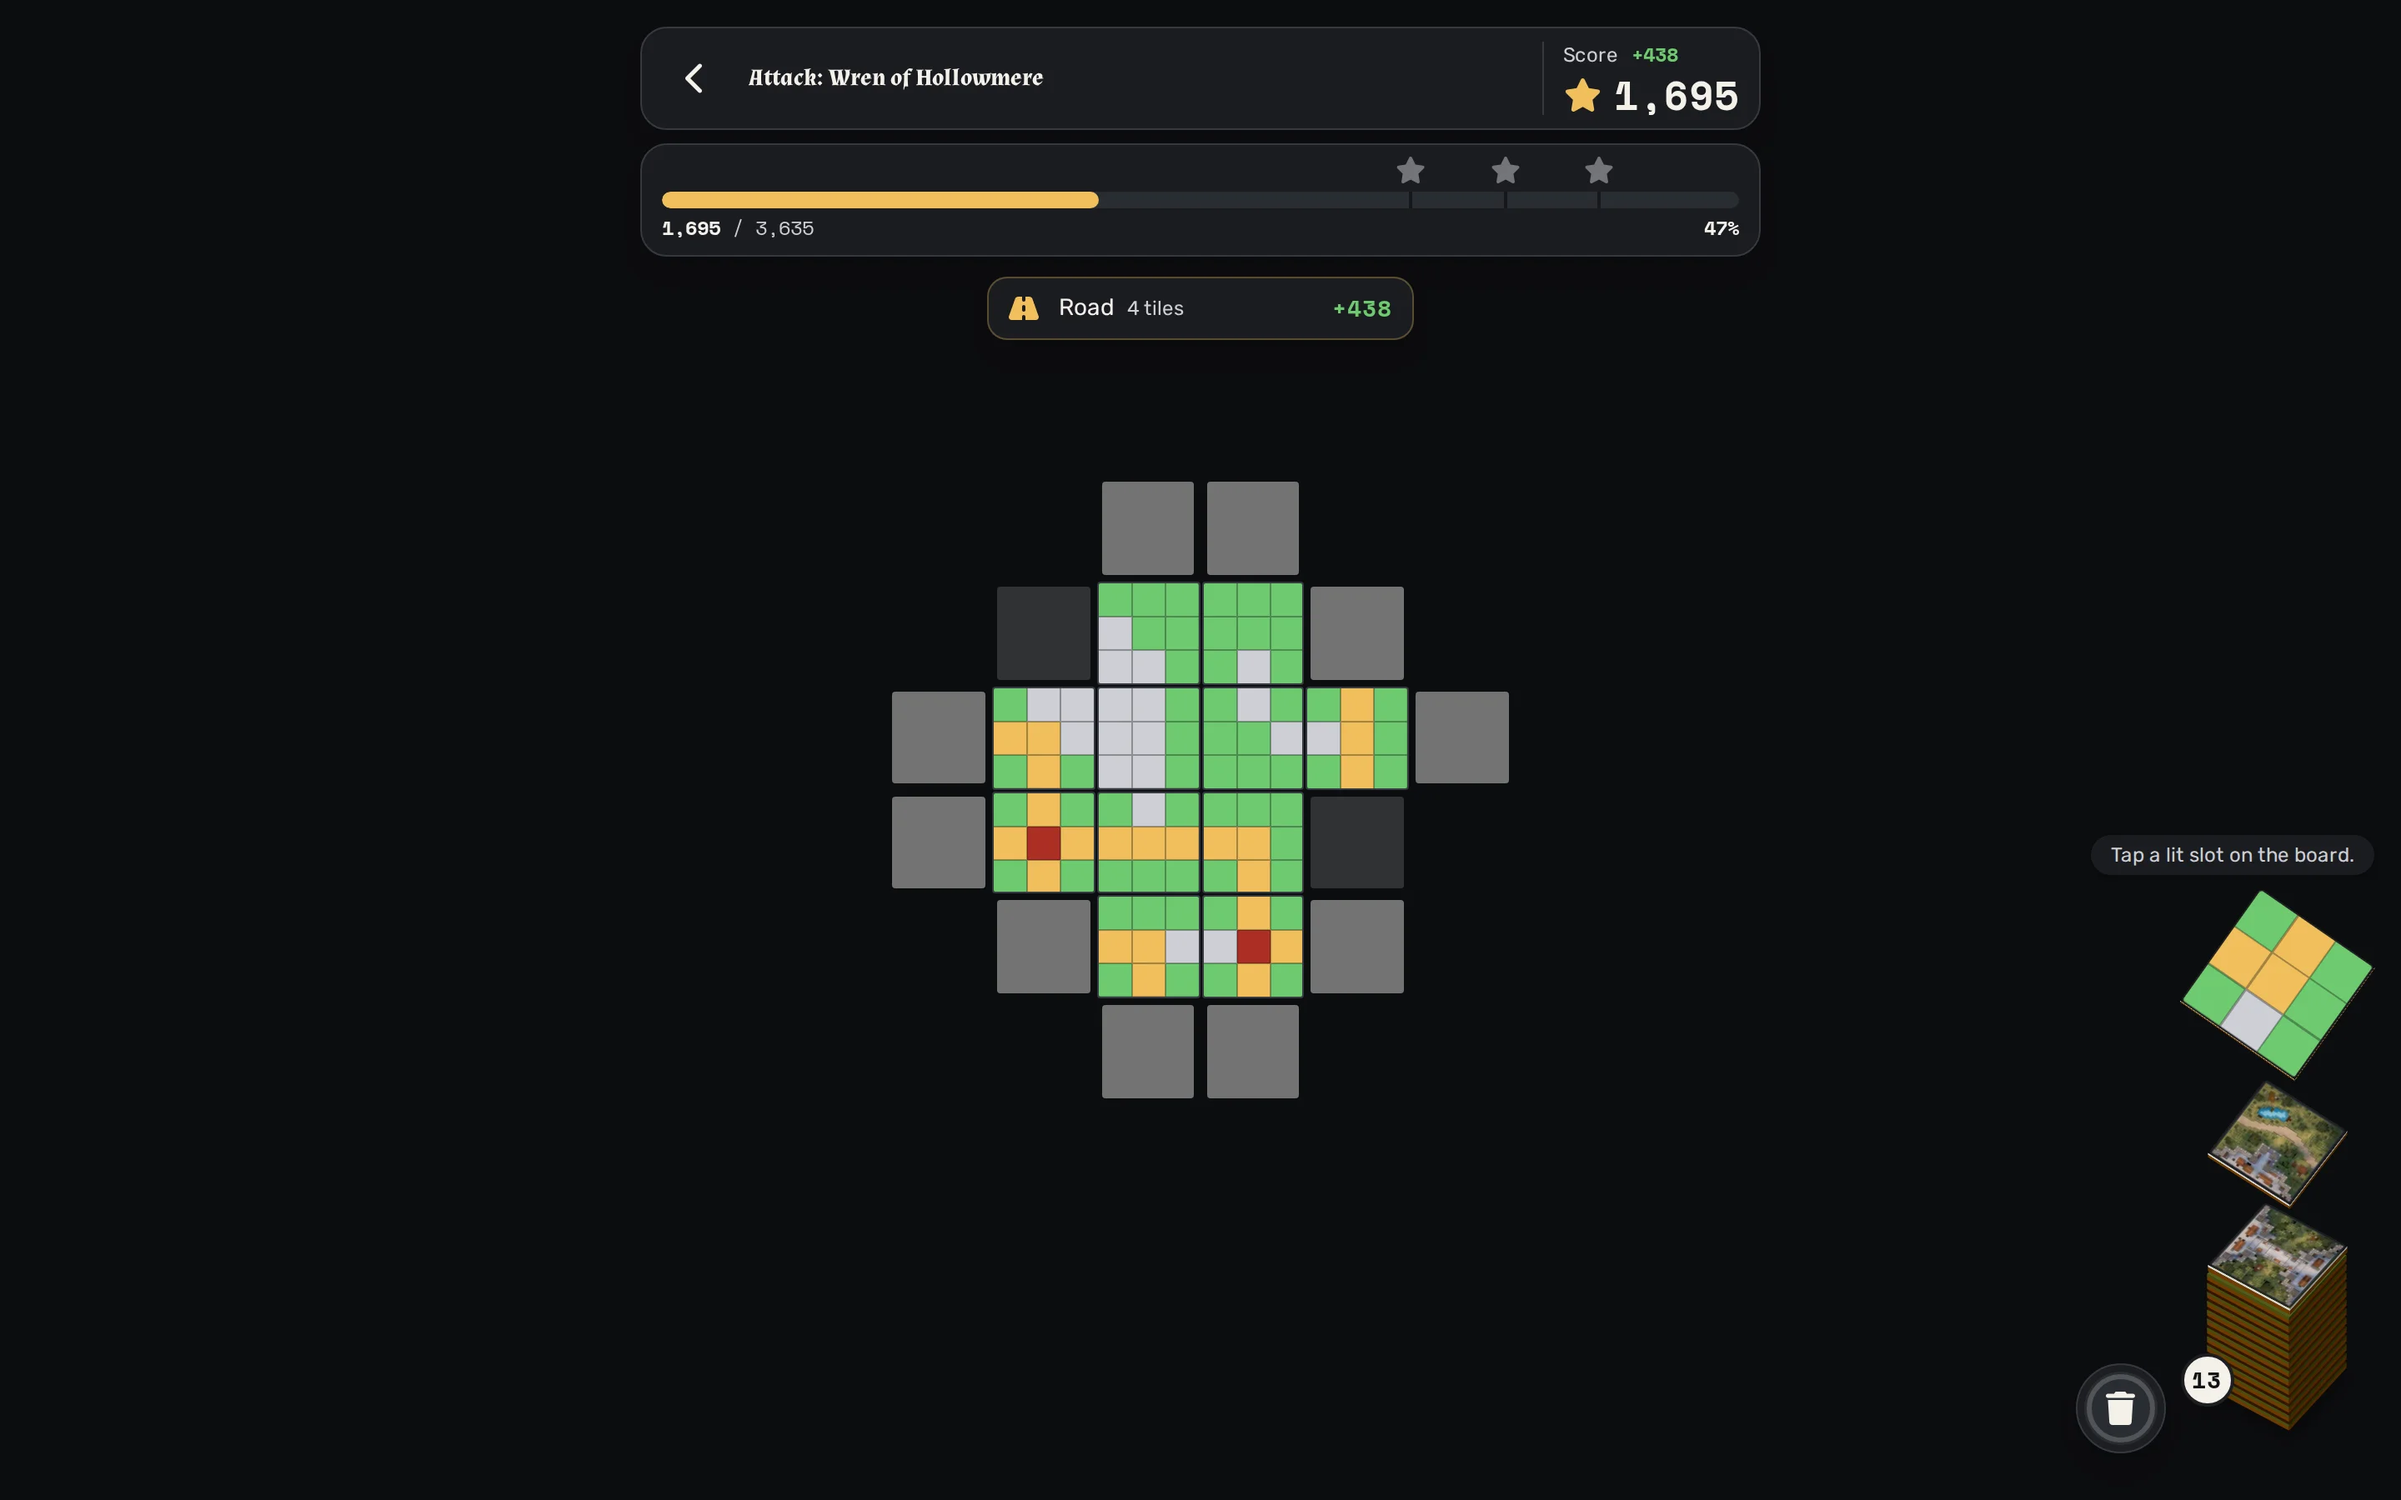
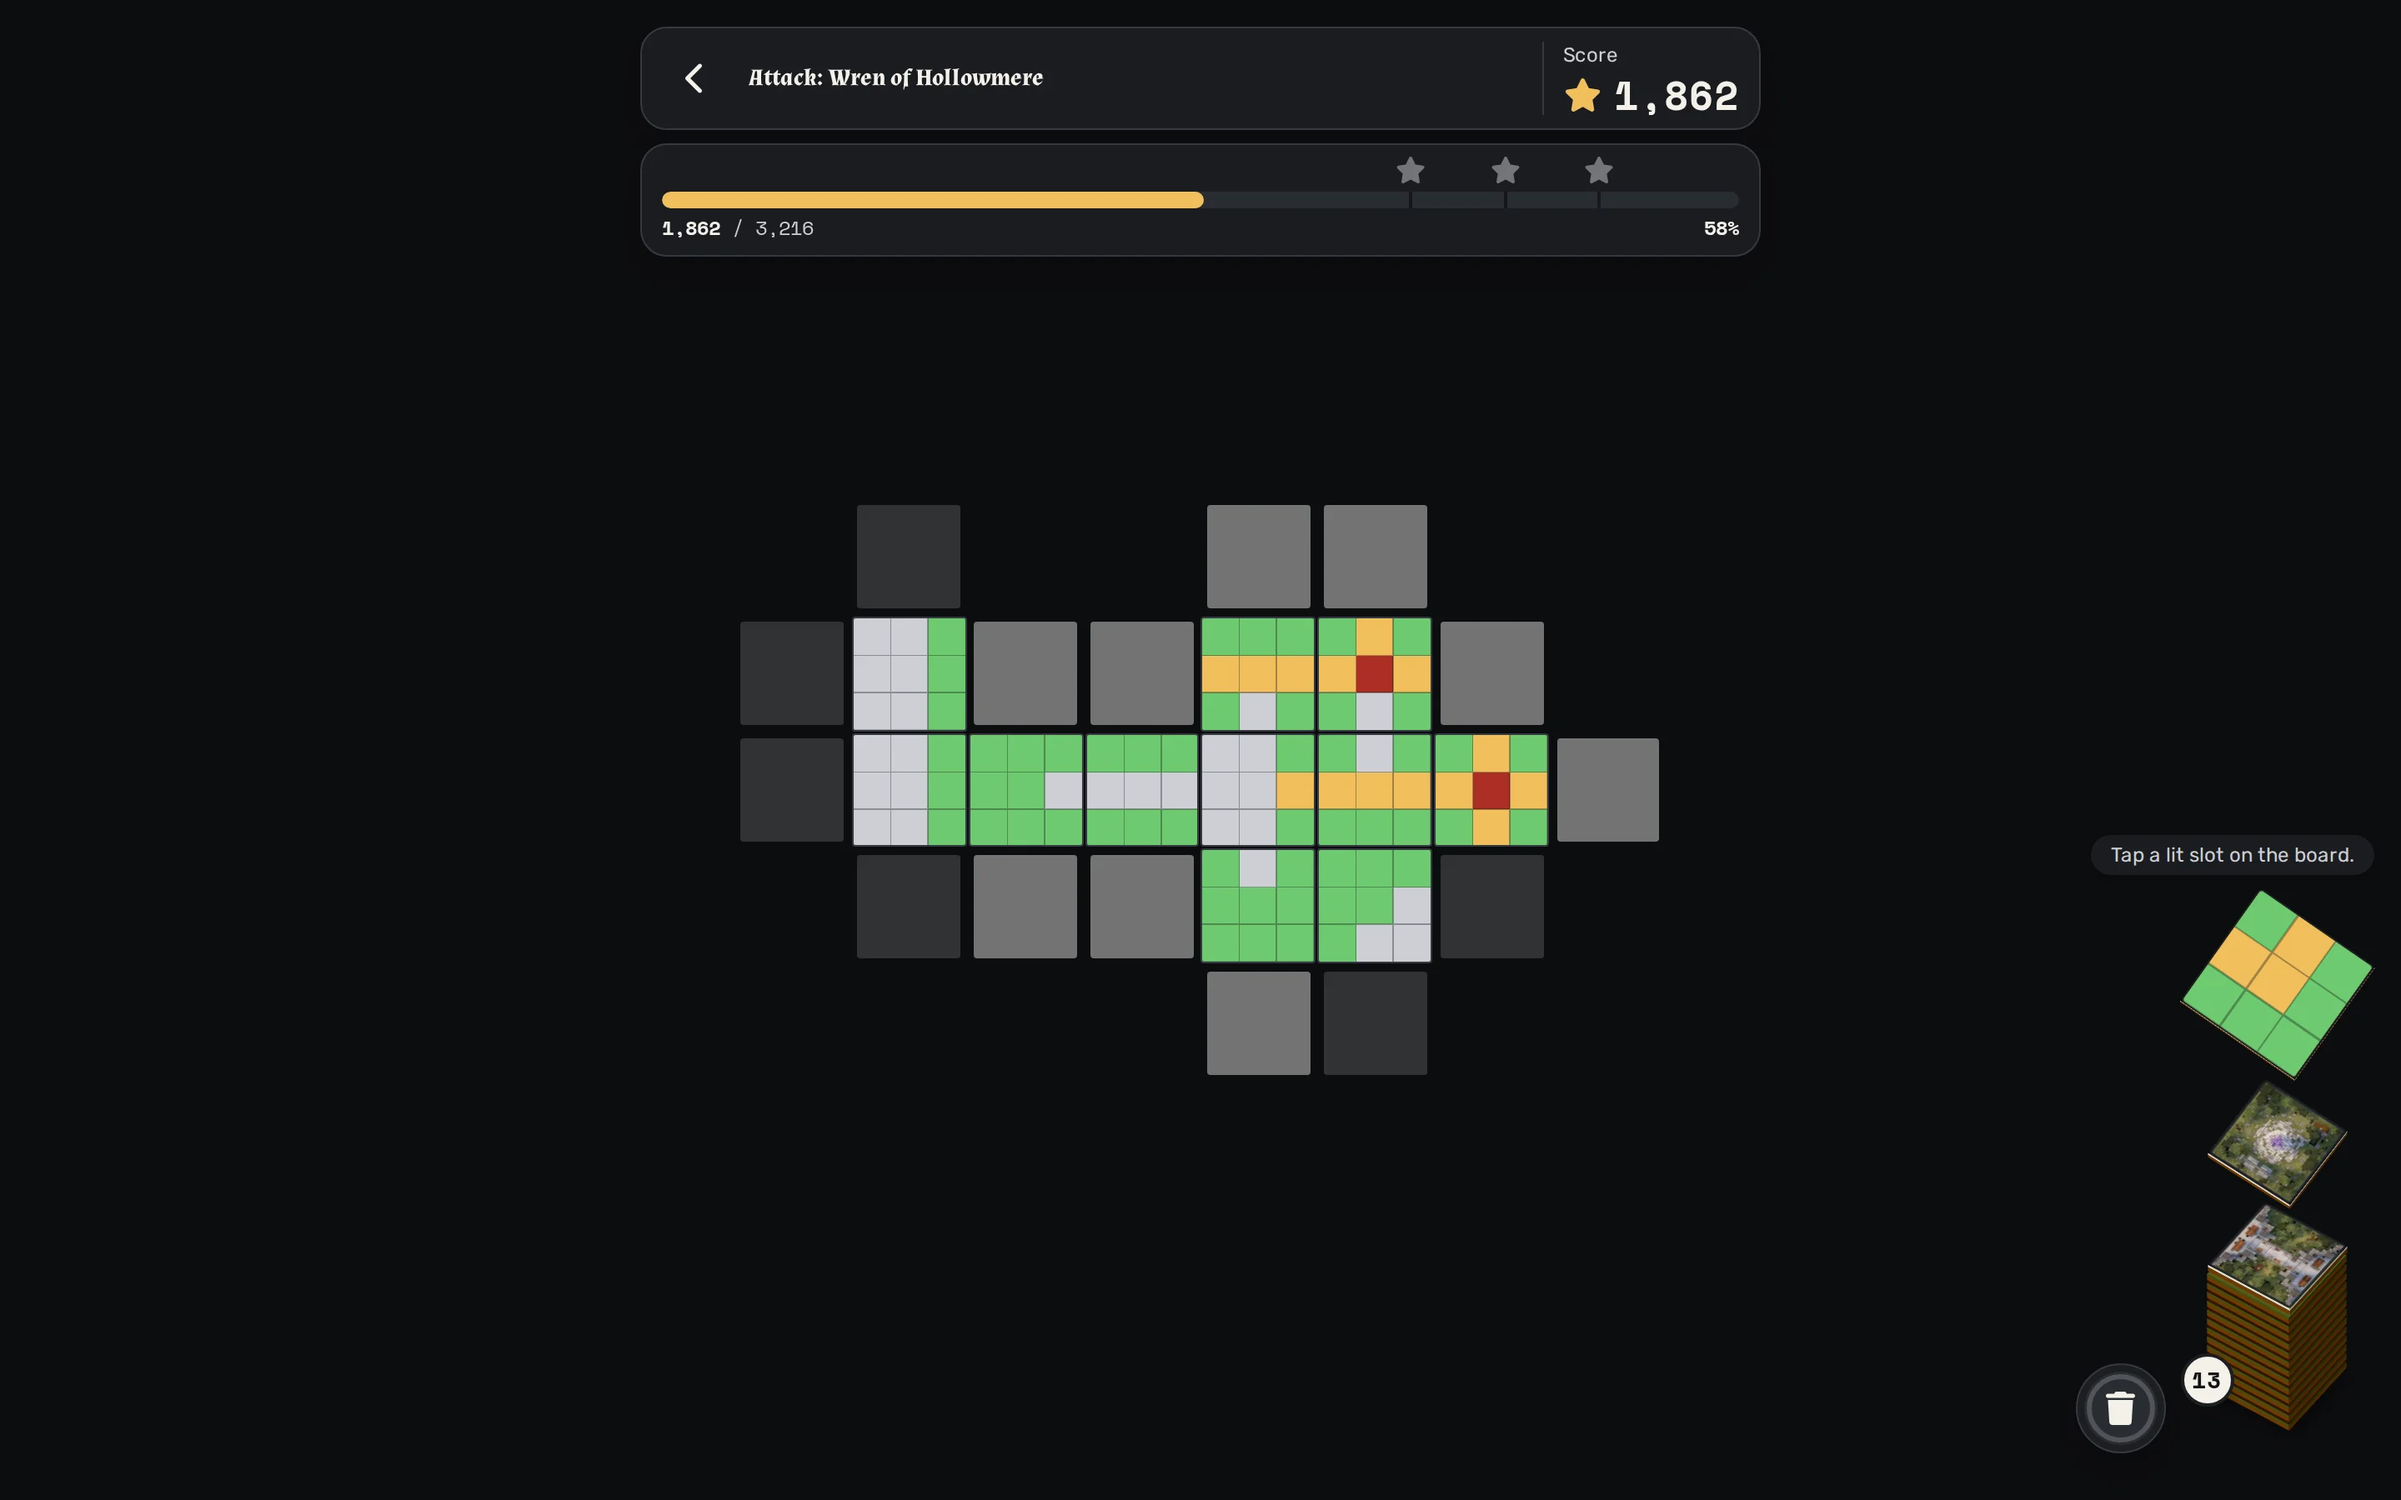
V2-ATTACK-UI: captures of the v2 scenes and the wired /pvp pages at 375 and 1440 px (#740)

diff --git a/packages/app/src/stories/mocked/pvp-page.stories.tsx b/packages/app/src/stories/mocked/pvp-page.stories.tsx
@@ -177,7 +177,7 @@ const attack = async (ledger: MockLedger) => {
 /** The search's receipt comes after 12 s: long enough to see (and capture) the wait, then the village found and its scout. */
 const SEARCH: Setup = { latencyMs: 12_000, prepare: foundV2 };
 const SCOUT: Setup = { prepare: searchV2 };
-const ATTACK: Setup = { prepare: async (ledger) => (await searchV2(ledger), await ledger.writesFor(PLAYER_ID).startAttackV2(), await playV2(ledger, 11)) };
+const ATTACK: Setup = { prepare: async (ledger) => (await searchV2(ledger), await ledger.writesFor(PLAYER_ID).startAttackV2(), await playV2(ledger, 5)) };
 const RESULT: Setup = { pvp: { crowns: 380, draws: 0, match: null, attacks: [], shieldUntil: 0, season: 1, seasonAttacks: 2, peak: 0 }, prepare: async (ledger) => (await attack(ledger), await play(ledger)) };
 const LEAGUE: Setup = { pvp: { crowns: 1172, draws: 9, match: null, attacks: [], shieldUntil: 0, season: 1, seasonAttacks: 3, peak: 7 } };
 const REPLAY: Setup = RESULT;
@@ -186,7 +186,7 @@ const REPLAY: Setup = RESULT;
 export const Search: Story = { parameters: { route: "/pvp" }, render: () => <PvpPages {...SEARCH} /> };
 /** The scout of the village drawn: its score, each star's points (80 / 90 / 100 %) and crowns, the deck the attack will have. */
 export const Scout: Story = { parameters: { route: "/pvp" }, render: () => <PvpPages {...SCOUT} /> };
-/** A v2 attack eleven moves in: an open board, the tile in hand and the next two, the deck left, the score against the marks. */
+/** A v2 attack five moves in: an open board, the tile in hand and the next two, the deck left, the score against the marks. */
 export const Attack: Story = { parameters: { route: "/pvp" }, render: () => <PvpPages {...ATTACK} /> };
 /** The attack's end: the stars, the crowns moved, the village reward the settlement granted (Open draws its tiles). */
 export const Result: Story = { parameters: { route: "/pvp/result/1" }, render: () => <PvpPages {...RESULT} /> };
